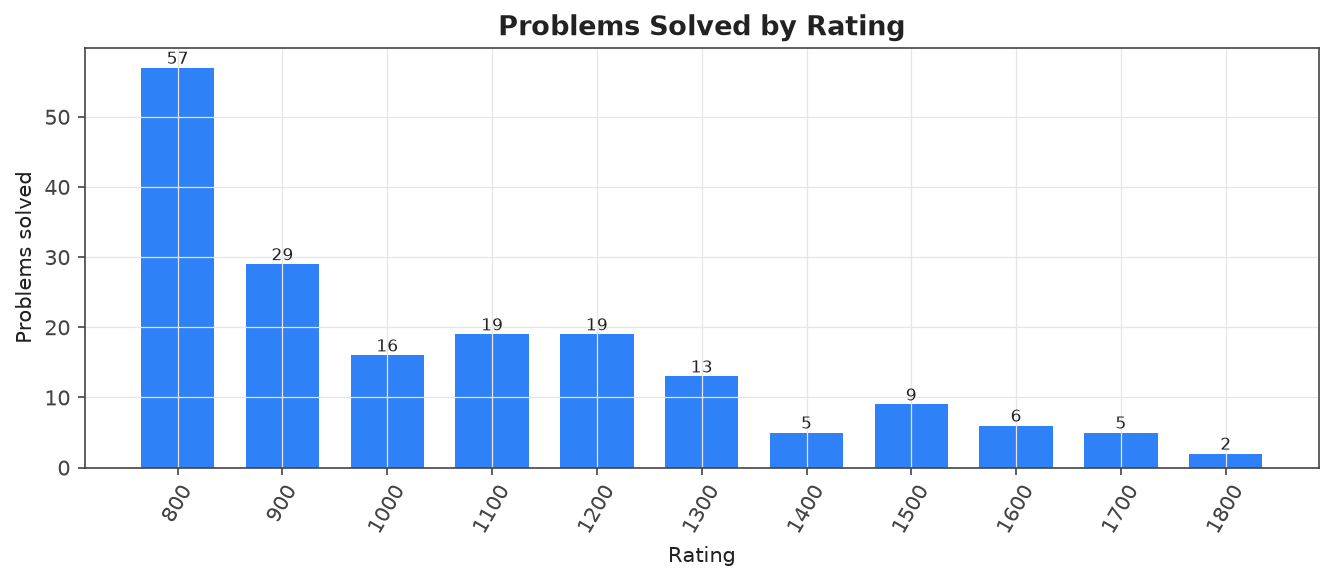
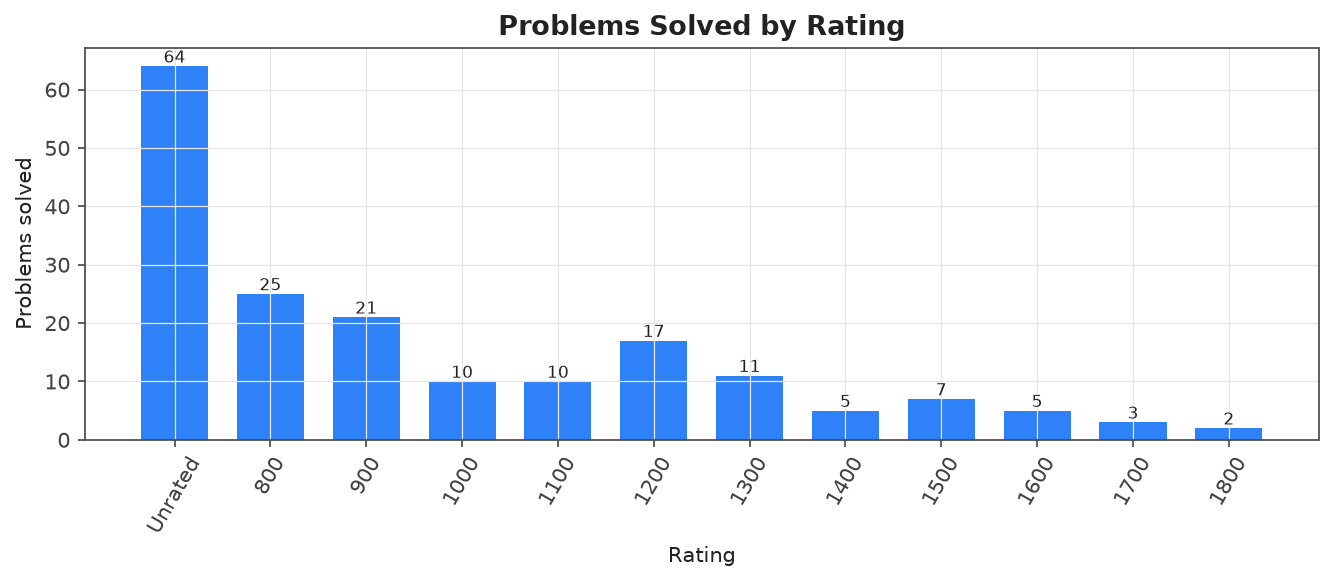
Sync: refresh analytics (rating/streak update, no new problems)

diff --git a/README.md b/README.md
@@ -37,17 +37,18 @@ Auto-generated archive of accepted Codeforces submissions for **[om_sharma_](htt
 
 | Rating | Count |
 |---|---|
-| 0800 | 57 |
-| 0900 | 29 |
-| 1000 | 16 |
-| 1100 | 19 |
-| 1200 | 19 |
-| 1300 | 13 |
+| 0800 | 25 |
+| 0900 | 21 |
+| 1000 | 10 |
+| 1100 | 10 |
+| 1200 | 17 |
+| 1300 | 11 |
 | 1400 | 5 |
-| 1500 | 9 |
-| 1600 | 6 |
-| 1700 | 5 |
+| 1500 | 7 |
+| 1600 | 5 |
+| 1700 | 3 |
 | 1800 | 2 |
+| Unrated | 64 |
 
 ### By tag
 
@@ -86,6 +87,70 @@ Auto-generated archive of accepted Codeforces submissions for **[om_sharma_](htt
 
 | # | Problem | Rating | Tags | Code | Link |
 |---|---|---|---|---|---|
+| 2167A | [Square?](problems/math/Unrated_2167A-Square) | ? | `math`, `sortings` | — | [CF](https://codeforces.com/contest/2167/problem/A) |
+| 2169B | [Drifting Away](problems/greedy/Unrated_2169B-Drifting-Away) | ? | `greedy`, `implementation` | — | [CF](https://codeforces.com/contest/2169/problem/B) |
+| 2182A | [New Year String](problems/constructive-algorithms/Unrated_2182A-New-Year-String) | ? | `constructive algorithms`, `greedy`, `implementation`, `strings` | — | [CF](https://codeforces.com/contest/2182/problem/A) |
+| 2182B | [New Year Cake](problems/brute-force/Unrated_2182B-New-Year-Cake) | ? | `brute force` | — | [CF](https://codeforces.com/contest/2182/problem/B) |
+| 2185A | [Perfect Root](problems/constructive-algorithms/Unrated_2185A-Perfect-Root) | ? | `constructive algorithms`, `math` | — | [CF](https://codeforces.com/contest/2185/problem/A) |
+| 2185B | [Prefix Max](problems/greedy/Unrated_2185B-Prefix-Max) | ? | `greedy` | — | [CF](https://codeforces.com/contest/2185/problem/B) |
+| 2185C | [Shifted MEX](problems/implementation/Unrated_2185C-Shifted-MEX) | ? | `implementation`, `sortings` | — | [CF](https://codeforces.com/contest/2185/problem/C) |
+| 2188A | [Divisible Permutation](problems/constructive-algorithms/Unrated_2188A-Divisible-Permutation) | ? | `constructive algorithms` | — | [CF](https://codeforces.com/contest/2188/problem/A) |
+| 2193C | [Replace and Sum](problems/data-structures/Unrated_2193C-Replace-and-Sum) | ? | `data structures`, `greedy` | — | [CF](https://codeforces.com/contest/2193/problem/C) |
+| 2195B | [Heapify 1](problems/implementation/Unrated_2195B-Heapify-1) | ? | `implementation`, `sortings` | — | [CF](https://codeforces.com/contest/2195/problem/B) |
+| 2195A | [Sieve of Erato67henes](problems/math/Unrated_2195A-Sieve-of-Erato67henes) | ? | `math`, `number theory` | — | [CF](https://codeforces.com/contest/2195/problem/A) |
+| 2196A | [Game with a Fraction](problems/games/Unrated_2196A-Game-with-a-Fraction) | ? | `games`, `math` | — | [CF](https://codeforces.com/contest/2196/problem/A) |
+| 2206J | [Worldwide Playlist](problems/math/Unrated_2206J-Worldwide-Playlist) | ? | `math` | — | [CF](https://codeforces.com/contest/2206/problem/J) |
+| 2209A | [Flip Flops](problems/greedy/Unrated_2209A-Flip-Flops) | ? | `greedy` | — | [CF](https://codeforces.com/contest/2209/problem/A) |
+| 2210B | [Simply Sitting on Chairs](problems/data-structures/Unrated_2210B-Simply-Sitting-on-Chairs) | ? | `data structures`, `greedy` | — | [CF](https://codeforces.com/contest/2210/problem/B) |
+| 2218A | [The 67th Integer Problem](problems/brute-force/Unrated_2218A-The-67th-Integer-Problem) | ? | `brute force`, `games`, `implementation`, `math` | — | [CF](https://codeforces.com/contest/2218/problem/A) |
+| 2233A | [AI Project Development](problems/brute-force/Unrated_2233A-AI-Project-Development) | ? | `brute force`, `math` | — | [CF](https://codeforces.com/contest/2233/problem/A) |
+| 2234A | [Euclid, Sequence and Two Numbers](problems/math/Unrated_2234A-Euclid-Sequence-and-Two-Numbers) | ? | `math`, `number theory`, `sortings` | — | [CF](https://codeforces.com/contest/2234/problem/A) |
+| 2234B | [Palindrome, Twelve and Two Terms](problems/brute-force/Unrated_2234B-Palindrome-Twelve-and-Two-Terms) | ? | `brute force`, `constructive algorithms`, `math` | — | [CF](https://codeforces.com/contest/2234/problem/B) |
+| 2236A | [Games on the Train](problems/greedy/Unrated_2236A-Games-on-the-Train) | ? | `greedy`, `math` | — | [CF](https://codeforces.com/contest/2236/problem/A) |
+| 2236B | [Tatar TV Show](problems/greedy/Unrated_2236B-Tatar-TV-Show) | ? | `greedy`, `math`, `strings` | — | [CF](https://codeforces.com/contest/2236/problem/B) |
+| 2236C | [Omsk Programmers](problems/brute-force/Unrated_2236C-Omsk-Programmers) | ? | `brute force`, `greedy`, `math` | — | [CF](https://codeforces.com/contest/2236/problem/C) |
+| 2236E | [Friendly Gifts](problems/brute-force/Unrated_2236E-Friendly-Gifts) | ? | `brute force`, `dp` | — | [CF](https://codeforces.com/contest/2236/problem/E) |
+| 2238A | [Another Puzzle from Papyrus](problems/greedy/Unrated_2238A-Another-Puzzle-from-Papyrus) | ? | `greedy`, `math`, `sortings` | — | [CF](https://codeforces.com/contest/2238/problem/A) |
+| 2238B | [Crimson Triples](problems/dp/Unrated_2238B-Crimson-Triples) | ? | `dp`, `math`, `number theory` | — | [CF](https://codeforces.com/contest/2238/problem/B) |
+| 2238D | [Storming Arasaka](problems/greedy/Unrated_2238D-Storming-Arasaka) | ? | `greedy`, `math`, `number theory` | — | [CF](https://codeforces.com/contest/2238/problem/D) |
+| 2240A | [Another Popcount Problem](problems/greedy/Unrated_2240A-Another-Popcount-Problem) | ? | `greedy` | — | [CF](https://codeforces.com/contest/2240/problem/A) |
+| 2240B | [AI Finds Nothing Here](problems/combinatorics/Unrated_2240B-AI-Finds-Nothing-Here) | ? | `combinatorics`, `math` | — | [CF](https://codeforces.com/contest/2240/problem/B) |
+| 2240C | [Nim Game Is XOR Game](problems/games/Unrated_2240C-Nim-Game-Is-XOR-Game) | ? | `games`, `greedy` | — | [CF](https://codeforces.com/contest/2240/problem/C) |
+| 2240D | [Decidophobia](problems/greedy/Unrated_2240D-Decidophobia) | ? | `greedy`, `sortings` | — | [CF](https://codeforces.com/contest/2240/problem/D) |
+| 2241A | [Divide and Conquer](problems/greedy/Unrated_2241A-Divide-and-Conquer) | ? | `greedy`, `math`, `number theory` | — | [CF](https://codeforces.com/contest/2241/problem/A) |
+| 2241C | [RemovevomeR](problems/greedy/Unrated_2241C-RemovevomeR) | ? | `greedy` | — | [CF](https://codeforces.com/contest/2241/problem/C) |
+| 2241D | [An Alternative Way](problems/dp/Unrated_2241D-An-Alternative-Way) | ? | `dp`, `greedy`, `math` | — | [CF](https://codeforces.com/contest/2241/problem/D) |
+| 2241B | [Good times Good times](problems/constructive-algorithms/Unrated_2241B-Good-times-Good-times) | ? | `constructive algorithms`, `dfs and similar`, `math` | — | [CF](https://codeforces.com/contest/2241/problem/B) |
+| 2242A | [Bigrams](problems/sortings/Unrated_2242A-Bigrams) | ? | `sortings`, `strings` | — | [CF](https://codeforces.com/contest/2242/problem/A) |
+| 2242C | [Unstable Elements](problems/brute-force/Unrated_2242C-Unstable-Elements) | ? | `brute force`, `data structures`, `implementation`, `sortings`, `two pointers` | — | [CF](https://codeforces.com/contest/2242/problem/C) |
+| 2242B | [Predominant Frequency Division](problems/data-structures/Unrated_2242B-Predominant-Frequency-Division) | ? | `data structures`, `greedy`, `implementation`, `math` | — | [CF](https://codeforces.com/contest/2242/problem/B) |
+| 2244A | [Iskander and Drawings](problems/dp/Unrated_2244A-Iskander-and-Drawings) | ? | `dp`, `games`, `greedy`, `strings` | — | [CF](https://codeforces.com/contest/2244/problem/A) |
+| 2244B | [Nikita and Books](problems/greedy/Unrated_2244B-Nikita-and-Books) | ? | `greedy`, `math`, `sortings` | — | [CF](https://codeforces.com/contest/2244/problem/B) |
+| 2244C | [Stepan and Permutation](problems/constructive-algorithms/Unrated_2244C-Stepan-and-Permutation) | ? | `constructive algorithms`, `dfs and similar`, `dsu`, `greedy`, `math`, `number theory`, `sortings` | — | [CF](https://codeforces.com/contest/2244/problem/C) |
+| 2244D | [Yaroslav and Productivity](problems/constructive-algorithms/Unrated_2244D-Yaroslav-and-Productivity) | ? | `constructive algorithms`, `dp`, `greedy`, `math`, `number theory` | — | [CF](https://codeforces.com/contest/2244/problem/D) |
+| 2245A | [Who Watches the Watchpig?](problems/greedy/Unrated_2245A-Who-Watches-the-Watchpig) | ? | `greedy` | — | [CF](https://codeforces.com/contest/2245/problem/A) |
+| 2245B | [Delete and Concatenate](problems/greedy/Unrated_2245B-Delete-and-Concatenate) | ? | `greedy` | — | [CF](https://codeforces.com/contest/2245/problem/B) |
+| 2246A | [farmpiggie and Subset Sum](problems/constructive-algorithms/Unrated_2246A-farmpiggie-and-Subset-Sum) | ? | `constructive algorithms` | — | [CF](https://codeforces.com/contest/2246/problem/A) |
+| 2246B | [ezraft and Array](problems/constructive-algorithms/Unrated_2246B-ezraft-and-Array) | ? | `constructive algorithms`, `number theory` | — | [CF](https://codeforces.com/contest/2246/problem/B) |
+| 2247A | [Zero Sum](problems/constructive-algorithms/Unrated_2247A-Zero-Sum) | ? | `constructive algorithms`, `dp`, `number theory` | — | [CF](https://codeforces.com/contest/2247/problem/A) |
+| 2247C | [Inversion of a Subsequence](problems/greedy/Unrated_2247C-Inversion-of-a-Subsequence) | ? | `greedy`, `math` | — | [CF](https://codeforces.com/contest/2247/problem/C) |
+| 2247B | [Yet Another Constructive](problems/constructive-algorithms/Unrated_2247B-Yet-Another-Constructive) | ? | `constructive algorithms` | — | [CF](https://codeforces.com/contest/2247/problem/B) |
+| 2248A | [You Delete, I Delete](problems/greedy/Unrated_2248A-You-Delete-I-Delete) | ? | `greedy` | — | [CF](https://codeforces.com/contest/2248/problem/A) |
+| 2250A | [Threshold Movement](problems/brute-force/Unrated_2250A-Threshold-Movement) | ? | `brute force`, `implementation`, `math` | — | [CF](https://codeforces.com/contest/2250/problem/A) |
+| 2252A | [Boss Fight](problems/data-structures/Unrated_2252A-Boss-Fight) | ? | `data structures`, `greedy` | — | [CF](https://codeforces.com/contest/2252/problem/A) |
+| 2252B | [Always Changing](problems/dp/Unrated_2252B-Always-Changing) | ? | `dp`, `greedy`, `math`, `strings` | — | [CF](https://codeforces.com/contest/2252/problem/B) |
+| 2253B | [Hypercarp and the Control Panel](problems/brute-force/Unrated_2253B-Hypercarp-and-the-Control-Panel) | ? | `brute force`, `data structures`, `two pointers` | — | [CF](https://codeforces.com/contest/2253/problem/B) |
+| 2253A | [The Best Card](problems/greedy/Unrated_2253A-The-Best-Card) | ? | `greedy`, `math`, `number theory` | — | [CF](https://codeforces.com/contest/2253/problem/A) |
+| 2254A | [Riptide](problems/implementation/Unrated_2254A-Riptide) | ? | `implementation`, `sortings` | — | [CF](https://codeforces.com/contest/2254/problem/A) |
+| 2254B | [Evanescent](problems/implementation/Unrated_2254B-Evanescent) | ? | `implementation`, `strings`, `two pointers` | — | [CF](https://codeforces.com/contest/2254/problem/B) |
+| 2254C1 | [Marenol (easy version)](problems/greedy/Unrated_2254C1-Marenol-easy-version) | ? | `greedy` | — | [CF](https://codeforces.com/contest/2254/problem/C1) |
+| 2256A | [Three Numbers on the Blackboard](problems/math/Unrated_2256A-Three-Numbers-on-the-Blackboard) | ? | `math`, `sortings` | — | [CF](https://codeforces.com/contest/2256/problem/A) |
+| 2256B | [Domino Tiles](problems/implementation/Unrated_2256B-Domino-Tiles) | ? | `implementation`, `math` | — | [CF](https://codeforces.com/contest/2256/problem/B) |
+| 2257A | [Creating Abbreviations](problems/brute-force/Unrated_2257A-Creating-Abbreviations) | ? | `brute force`, `strings` | — | [CF](https://codeforces.com/contest/2257/problem/A) |
+| 2257B | [Gigantomachy](problems/math/Unrated_2257B-Gigantomachy) | ? | `math` | — | [CF](https://codeforces.com/contest/2257/problem/B) |
+| 2257D | [Bermuda Rectangle](problems/binary-search/Unrated_2257D-Bermuda-Rectangle) | ? | `binary search`, `implementation`, `math`, `number theory`, `two pointers` | — | [CF](https://codeforces.com/contest/2257/problem/D) |
+| 2258A | [Odd Eraser](problems/math/Unrated_2258A-Odd-Eraser) | ? | `math` | — | [CF](https://codeforces.com/contest/2258/problem/A) |
+| 2258B1 | [Carrot Chopdown (Easy Version)](problems/brute-force/Unrated_2258B1-Carrot-Chopdown-Easy-Version) | ? | `brute force`, `games`, `math` | — | [CF](https://codeforces.com/contest/2258/problem/B1) |
 | 4A | [Watermelon](problems/brute-force/0800_4A-Watermelon) | 800 | `brute force`, `math` | — | [CF](https://codeforces.com/contest/4/problem/A) |
 | 14A | [Letter](problems/implementation/0800_14A-Letter) | 800 | `implementation` | — | [CF](https://codeforces.com/contest/14/problem/A) |
 | 71A | [Way Too Long Words](problems/strings/0800_71A-Way-Too-Long-Words) | 800 | `strings` | — | [CF](https://codeforces.com/contest/71/problem/A) |
@@ -111,38 +176,6 @@ Auto-generated archive of accepted Codeforces submissions for **[om_sharma_](htt
 | 2139B | [Cake Collection](problems/greedy/0800_2139B-Cake-Collection) | 800 | `greedy` | — | [CF](https://codeforces.com/contest/2139/problem/B) |
 | 2139A | [Maple and Multiplication](problems/greedy/0800_2139A-Maple-and-Multiplication) | 800 | `greedy`, `math` | — | [CF](https://codeforces.com/contest/2139/problem/A) |
 | 2151A | [Incremental Subarray](problems/math/0800_2151A-Incremental-Subarray) | 800 | `math`, `strings` | — | [CF](https://codeforces.com/contest/2151/problem/A) |
-| 2167A | [Square?](problems/math/0800_2167A-Square) | 800 | `math`, `sortings` | — | [CF](https://codeforces.com/contest/2167/problem/A) |
-| 2182A | [New Year String](problems/constructive-algorithms/0800_2182A-New-Year-String) | 800 | `constructive algorithms`, `greedy`, `implementation`, `strings` | — | [CF](https://codeforces.com/contest/2182/problem/A) |
-| 2182B | [New Year Cake](problems/brute-force/0800_2182B-New-Year-Cake) | 800 | `brute force` | — | [CF](https://codeforces.com/contest/2182/problem/B) |
-| 2185A | [Perfect Root](problems/constructive-algorithms/0800_2185A-Perfect-Root) | 800 | `constructive algorithms`, `math` | — | [CF](https://codeforces.com/contest/2185/problem/A) |
-| 2185B | [Prefix Max](problems/greedy/0800_2185B-Prefix-Max) | 800 | `greedy` | — | [CF](https://codeforces.com/contest/2185/problem/B) |
-| 2188A | [Divisible Permutation](problems/constructive-algorithms/0800_2188A-Divisible-Permutation) | 800 | `constructive algorithms` | — | [CF](https://codeforces.com/contest/2188/problem/A) |
-| 2195A | [Sieve of Erato67henes](problems/math/0800_2195A-Sieve-of-Erato67henes) | 800 | `math`, `number theory` | — | [CF](https://codeforces.com/contest/2195/problem/A) |
-| 2209A | [Flip Flops](problems/greedy/0800_2209A-Flip-Flops) | 800 | `greedy` | — | [CF](https://codeforces.com/contest/2209/problem/A) |
-| 2218A | [The 67th Integer Problem](problems/brute-force/0800_2218A-The-67th-Integer-Problem) | 800 | `brute force`, `games`, `implementation`, `math` | — | [CF](https://codeforces.com/contest/2218/problem/A) |
-| 2233A | [AI Project Development](problems/brute-force/0800_2233A-AI-Project-Development) | 800 | `brute force`, `math` | — | [CF](https://codeforces.com/contest/2233/problem/A) |
-| 2234A | [Euclid, Sequence and Two Numbers](problems/math/0800_2234A-Euclid-Sequence-and-Two-Numbers) | 800 | `math`, `number theory`, `sortings` | — | [CF](https://codeforces.com/contest/2234/problem/A) |
-| 2234B | [Palindrome, Twelve and Two Terms](problems/brute-force/0800_2234B-Palindrome-Twelve-and-Two-Terms) | 800 | `brute force`, `constructive algorithms`, `math` | — | [CF](https://codeforces.com/contest/2234/problem/B) |
-| 2236A | [Games on the Train](problems/greedy/0800_2236A-Games-on-the-Train) | 800 | `greedy`, `math` | — | [CF](https://codeforces.com/contest/2236/problem/A) |
-| 2236B | [Tatar TV Show](problems/greedy/0800_2236B-Tatar-TV-Show) | 800 | `greedy`, `math`, `strings` | — | [CF](https://codeforces.com/contest/2236/problem/B) |
-| 2238A | [Another Puzzle from Papyrus](problems/greedy/0800_2238A-Another-Puzzle-from-Papyrus) | 800 | `greedy`, `math`, `sortings` | — | [CF](https://codeforces.com/contest/2238/problem/A) |
-| 2240A | [Another Popcount Problem](problems/greedy/0800_2240A-Another-Popcount-Problem) | 800 | `greedy` | — | [CF](https://codeforces.com/contest/2240/problem/A) |
-| 2241A | [Divide and Conquer](problems/greedy/0800_2241A-Divide-and-Conquer) | 800 | `greedy`, `math`, `number theory` | — | [CF](https://codeforces.com/contest/2241/problem/A) |
-| 2242A | [Bigrams](problems/sortings/0800_2242A-Bigrams) | 800 | `sortings`, `strings` | — | [CF](https://codeforces.com/contest/2242/problem/A) |
-| 2244A | [Iskander and Drawings](problems/dp/0800_2244A-Iskander-and-Drawings) | 800 | `dp`, `games`, `greedy`, `strings` | — | [CF](https://codeforces.com/contest/2244/problem/A) |
-| 2244B | [Nikita and Books](problems/greedy/0800_2244B-Nikita-and-Books) | 800 | `greedy`, `math`, `sortings` | — | [CF](https://codeforces.com/contest/2244/problem/B) |
-| 2245A | [Who Watches the Watchpig?](problems/greedy/0800_2245A-Who-Watches-the-Watchpig) | 800 | `greedy` | — | [CF](https://codeforces.com/contest/2245/problem/A) |
-| 2246A | [farmpiggie and Subset Sum](problems/constructive-algorithms/0800_2246A-farmpiggie-and-Subset-Sum) | 800 | `constructive algorithms` | — | [CF](https://codeforces.com/contest/2246/problem/A) |
-| 2247A | [Zero Sum](problems/constructive-algorithms/0800_2247A-Zero-Sum) | 800 | `constructive algorithms`, `dp`, `number theory` | — | [CF](https://codeforces.com/contest/2247/problem/A) |
-| 2248A | [You Delete, I Delete](problems/greedy/0800_2248A-You-Delete-I-Delete) | 800 | `greedy` | — | [CF](https://codeforces.com/contest/2248/problem/A) |
-| 2250A | [Threshold Movement](problems/brute-force/0800_2250A-Threshold-Movement) | 800 | `brute force`, `implementation`, `math` | — | [CF](https://codeforces.com/contest/2250/problem/A) |
-| 2252A | [Boss Fight](problems/data-structures/0800_2252A-Boss-Fight) | 800 | `data structures`, `greedy` | — | [CF](https://codeforces.com/contest/2252/problem/A) |
-| 2253A | [The Best Card](problems/greedy/0800_2253A-The-Best-Card) | 800 | `greedy`, `math`, `number theory` | — | [CF](https://codeforces.com/contest/2253/problem/A) |
-| 2254A | [Riptide](problems/implementation/0800_2254A-Riptide) | 800 | `implementation`, `sortings` | — | [CF](https://codeforces.com/contest/2254/problem/A) |
-| 2256A | [Three Numbers on the Blackboard](problems/math/0800_2256A-Three-Numbers-on-the-Blackboard) | 800 | `math`, `sortings` | — | [CF](https://codeforces.com/contest/2256/problem/A) |
-| 2257A | [Creating Abbreviations](problems/brute-force/0800_2257A-Creating-Abbreviations) | 800 | `brute force`, `strings` | — | [CF](https://codeforces.com/contest/2257/problem/A) |
-| 2257B | [Gigantomachy](problems/math/0800_2257B-Gigantomachy) | 800 | `math` | — | [CF](https://codeforces.com/contest/2257/problem/B) |
-| 2258A | [Odd Eraser](problems/math/0800_2258A-Odd-Eraser) | 800 | `math` | — | [CF](https://codeforces.com/contest/2258/problem/A) |
 | 337A | [Puzzles](problems/greedy/0900_337A-Puzzles) | 900 | `greedy` | — | [CF](https://codeforces.com/contest/337/problem/A) |
 | 1374B | [Multiply by 2, divide by 6](problems/math/0900_1374B-Multiply-by-2-divide-by-6) | 900 | `math` | — | [CF](https://codeforces.com/contest/1374/problem/B) |
 | 1440B | [Sum of Medians](problems/greedy/0900_1440B-Sum-of-Medians) | 900 | `greedy`, `math` | — | [CF](https://codeforces.com/contest/1440/problem/B) |
@@ -164,14 +197,6 @@ Auto-generated archive of accepted Codeforces submissions for **[om_sharma_](htt
 | 1878C | [Vasilije in Cacak](problems/math/0900_1878C-Vasilije-in-Cacak) | 900 | `math` | — | [CF](https://codeforces.com/contest/1878/problem/C) |
 | 1883B | [Chemistry](problems/strings/0900_1883B-Chemistry) | 900 | `strings` | — | [CF](https://codeforces.com/contest/1883/problem/B) |
 | 1904A | [Forked!](problems/brute-force/0900_1904A-Forked) | 900 | `brute force`, `implementation` | — | [CF](https://codeforces.com/contest/1904/problem/A) |
-| 2185C | [Shifted MEX](problems/implementation/0900_2185C-Shifted-MEX) | 900 | `implementation`, `sortings` | — | [CF](https://codeforces.com/contest/2185/problem/C) |
-| 2195B | [Heapify 1](problems/implementation/0900_2195B-Heapify-1) | 900 | `implementation`, `sortings` | — | [CF](https://codeforces.com/contest/2195/problem/B) |
-| 2210B | [Simply Sitting on Chairs](problems/data-structures/0900_2210B-Simply-Sitting-on-Chairs) | 900 | `data structures`, `greedy` | — | [CF](https://codeforces.com/contest/2210/problem/B) |
-| 2238B | [Crimson Triples](problems/dp/0900_2238B-Crimson-Triples) | 900 | `dp`, `math`, `number theory` | — | [CF](https://codeforces.com/contest/2238/problem/B) |
-| 2246B | [ezraft and Array](problems/constructive-algorithms/0900_2246B-ezraft-and-Array) | 900 | `constructive algorithms`, `number theory` | — | [CF](https://codeforces.com/contest/2246/problem/B) |
-| 2247B | [Yet Another Constructive](problems/constructive-algorithms/0900_2247B-Yet-Another-Constructive) | 900 | `constructive algorithms` | — | [CF](https://codeforces.com/contest/2247/problem/B) |
-| 2254B | [Evanescent](problems/implementation/0900_2254B-Evanescent) | 900 | `implementation`, `strings`, `two pointers` | — | [CF](https://codeforces.com/contest/2254/problem/B) |
-| 2258B1 | [Carrot Chopdown (Easy Version)](problems/brute-force/0900_2258B1-Carrot-Chopdown-Easy-Version) | 900 | `brute force`, `games`, `math` | — | [CF](https://codeforces.com/contest/2258/problem/B1) |
 | 1A | [Theatre Square](problems/math/1000_1A-Theatre-Square) | 1000 | `math` | — | [CF](https://codeforces.com/contest/1/problem/A) |
 | 14B | [Young Photographer](problems/implementation/1000_14B-Young-Photographer) | 1000 | `implementation` | — | [CF](https://codeforces.com/contest/14/problem/B) |
 | 43A | [Football](problems/strings/1000_43A-Football) | 1000 | `strings` | — | [CF](https://codeforces.com/contest/43/problem/A) |
@@ -182,12 +207,6 @@ Auto-generated archive of accepted Codeforces submissions for **[om_sharma_](htt
 | 1784A | [Monsters (easy version)](problems/brute-force/1000_1784A-Monsters-easy-version) | 1000 | `brute force`, `greedy` | — | [CF](https://codeforces.com/contest/1784/problem/A) |
 | 1883C | [Raspberries](problems/dp/1000_1883C-Raspberries) | 1000 | `dp`, `math` | — | [CF](https://codeforces.com/contest/1883/problem/C) |
 | 1913B | [Swap and Delete](problems/strings/1000_1913B-Swap-and-Delete) | 1000 | `strings` | — | [CF](https://codeforces.com/contest/1913/problem/B) |
-| 2193C | [Replace and Sum](problems/data-structures/1000_2193C-Replace-and-Sum) | 1000 | `data structures`, `greedy` | — | [CF](https://codeforces.com/contest/2193/problem/C) |
-| 2236C | [Omsk Programmers](problems/brute-force/1000_2236C-Omsk-Programmers) | 1000 | `brute force`, `greedy`, `math` | — | [CF](https://codeforces.com/contest/2236/problem/C) |
-| 2241C | [RemovevomeR](problems/greedy/1000_2241C-RemovevomeR) | 1000 | `greedy` | — | [CF](https://codeforces.com/contest/2241/problem/C) |
-| 2242B | [Predominant Frequency Division](problems/data-structures/1000_2242B-Predominant-Frequency-Division) | 1000 | `data structures`, `greedy`, `implementation`, `math` | — | [CF](https://codeforces.com/contest/2242/problem/B) |
-| 2254C1 | [Marenol (easy version)](problems/greedy/1000_2254C1-Marenol-easy-version) | 1000 | `greedy` | — | [CF](https://codeforces.com/contest/2254/problem/C1) |
-| 2256B | [Domino Tiles](problems/implementation/1000_2256B-Domino-Tiles) | 1000 | `implementation`, `math` | — | [CF](https://codeforces.com/contest/2256/problem/B) |
 | 919B | [Perfect Number](problems/binary-search/1100_919B-Perfect-Number) | 1100 | `binary search`, `brute force`, `dp`, `implementation`, `number theory` | — | [CF](https://codeforces.com/contest/919/problem/B) |
 | 1708B | [Difference of GCDs](problems/constructive-algorithms/1100_1708B-Difference-of-GCDs) | 1100 | `constructive algorithms`, `math` | — | [CF](https://codeforces.com/contest/1708/problem/B) |
 | 1826B | [Lunatic Never Content](problems/math/1100_1826B-Lunatic-Never-Content) | 1100 | `math`, `number theory` | — | [CF](https://codeforces.com/contest/1826/problem/B) |
@@ -198,15 +217,6 @@ Auto-generated archive of accepted Codeforces submissions for **[om_sharma_](htt
 | 2063B | [Subsequence Update](problems/constructive-algorithms/1100_2063B-Subsequence-Update) | 1100 | `constructive algorithms`, `data structures`, `greedy`, `sortings` | — | [CF](https://codeforces.com/contest/2063/problem/B) |
 | 2065C1 | [Skibidus and Fanum Tax (easy version)](problems/binary-search/1100_2065C1-Skibidus-and-Fanum-Tax-easy-version) | 1100 | `binary search`, `dp`, `greedy` | — | [CF](https://codeforces.com/contest/2065/problem/C1) |
 | 2138A | [Cake Assignment](problems/bitmasks/1100_2138A-Cake-Assignment) | 1100 | `bitmasks`, `constructive algorithms`, `greedy` | — | [CF](https://codeforces.com/contest/2138/problem/A) |
-| 2169B | [Drifting Away](problems/greedy/1100_2169B-Drifting-Away) | 1100 | `greedy`, `implementation` | — | [CF](https://codeforces.com/contest/2169/problem/B) |
-| 2240B | [AI Finds Nothing Here](problems/combinatorics/1100_2240B-AI-Finds-Nothing-Here) | 1100 | `combinatorics`, `math` | — | [CF](https://codeforces.com/contest/2240/problem/B) |
-| 2241D | [An Alternative Way](problems/dp/1100_2241D-An-Alternative-Way) | 1100 | `dp`, `greedy`, `math` | — | [CF](https://codeforces.com/contest/2241/problem/D) |
-| 2241B | [Good times Good times](problems/constructive-algorithms/1100_2241B-Good-times-Good-times) | 1100 | `constructive algorithms`, `dfs and similar`, `math` | — | [CF](https://codeforces.com/contest/2241/problem/B) |
-| 2244C | [Stepan and Permutation](problems/constructive-algorithms/1100_2244C-Stepan-and-Permutation) | 1100 | `constructive algorithms`, `dfs and similar`, `dsu`, `greedy`, `math`, `number theory`, `sortings` | — | [CF](https://codeforces.com/contest/2244/problem/C) |
-| 2245B | [Delete and Concatenate](problems/greedy/1100_2245B-Delete-and-Concatenate) | 1100 | `greedy` | — | [CF](https://codeforces.com/contest/2245/problem/B) |
-| 2247C | [Inversion of a Subsequence](problems/greedy/1100_2247C-Inversion-of-a-Subsequence) | 1100 | `greedy`, `math` | — | [CF](https://codeforces.com/contest/2247/problem/C) |
-| 2252B | [Always Changing](problems/dp/1100_2252B-Always-Changing) | 1100 | `dp`, `greedy`, `math`, `strings` | — | [CF](https://codeforces.com/contest/2252/problem/B) |
-| 2253B | [Hypercarp and the Control Panel](problems/brute-force/1100_2253B-Hypercarp-and-the-Control-Panel) | 1100 | `brute force`, `data structures`, `two pointers` | — | [CF](https://codeforces.com/contest/2253/problem/B) |
 | 4B | [Before an Exam](problems/constructive-algorithms/1200_4B-Before-an-Exam) | 1200 | `constructive algorithms`, `greedy` | — | [CF](https://codeforces.com/contest/4/problem/B) |
 | 101A | [Homework](problems/greedy/1200_101A-Homework) | 1200 | `greedy` | — | [CF](https://codeforces.com/contest/101/problem/A) |
 | 961B | [Lecture Sleep](problems/data-structures/1200_961B-Lecture-Sleep) | 1200 | `data structures`, `dp`, `implementation`, `two pointers` | — | [CF](https://codeforces.com/contest/961/problem/B) |
@@ -224,8 +234,6 @@ Auto-generated archive of accepted Codeforces submissions for **[om_sharma_](htt
 | 2051D | [Counting Pairs](problems/binary-search/1200_2051D-Counting-Pairs) | 1200 | `binary search`, `sortings`, `two pointers` | — | [CF](https://codeforces.com/contest/2051/problem/D) |
 | 2053B | [Outstanding Impressionist](problems/binary-search/1200_2053B-Outstanding-Impressionist) | 1200 | `binary search`, `brute force`, `data structures`, `greedy` | — | [CF](https://codeforces.com/contest/2053/problem/B) |
 | 2109B | [Slice to Survive](problems/bitmasks/1200_2109B-Slice-to-Survive) | 1200 | `bitmasks`, `greedy`, `math` | — | [CF](https://codeforces.com/contest/2109/problem/B) |
-| 2196A | [Game with a Fraction](problems/games/1200_2196A-Game-with-a-Fraction) | 1200 | `games`, `math` | — | [CF](https://codeforces.com/contest/2196/problem/A) |
-| 2244D | [Yaroslav and Productivity](problems/constructive-algorithms/1200_2244D-Yaroslav-and-Productivity) | 1200 | `constructive algorithms`, `dp`, `greedy`, `math`, `number theory` | — | [CF](https://codeforces.com/contest/2244/problem/D) |
 | 4C | [Registration System](problems/data-structures/1300_4C-Registration-System) | 1300 | `data structures`, `hashing`, `implementation` | — | [CF](https://codeforces.com/contest/4/problem/C) |
 | 230B | [T-primes](problems/binary-search/1300_230B-T-primes) | 1300 | `binary search`, `implementation`, `math`, `number theory` | — | [CF](https://codeforces.com/contest/230/problem/B) |
 | 665C | [Simple Strings](problems/dp/1300_665C-Simple-Strings) | 1300 | `dp`, `greedy`, `strings` | — | [CF](https://codeforces.com/contest/665/problem/C) |
@@ -237,8 +245,6 @@ Auto-generated archive of accepted Codeforces submissions for **[om_sharma_](htt
 | 2041A | [The Bento Box Adventure](problems/implementation/1300_2041A-The-Bento-Box-Adventure) | 1300 | `implementation`, `sortings` | — | [CF](https://codeforces.com/contest/2041/problem/A) |
 | 2049B | [pspspsps](problems/brute-force/1300_2049B-pspspsps) | 1300 | `brute force`, `constructive algorithms`, `graph matchings`, `implementation` | — | [CF](https://codeforces.com/contest/2049/problem/B) |
 | 2116B | [Gellyfish and Baby's Breath](problems/greedy/1300_2116B-Gellyfish-and-Babys-Breath) | 1300 | `greedy`, `math`, `sortings` | — | [CF](https://codeforces.com/contest/2116/problem/B) |
-| 2240C | [Nim Game Is XOR Game](problems/games/1300_2240C-Nim-Game-Is-XOR-Game) | 1300 | `games`, `greedy` | — | [CF](https://codeforces.com/contest/2240/problem/C) |
-| 2242C | [Unstable Elements](problems/brute-force/1300_2242C-Unstable-Elements) | 1300 | `brute force`, `data structures`, `implementation`, `sortings`, `two pointers` | — | [CF](https://codeforces.com/contest/2242/problem/C) |
 | 279B | [Books](problems/binary-search/1400_279B-Books) | 1400 | `binary search`, `brute force`, `implementation`, `two pointers` | — | [CF](https://codeforces.com/contest/279/problem/B) |
 | 1974D | [Ingenuity-2](problems/constructive-algorithms/1400_1974D-Ingenuity-2) | 1400 | `constructive algorithms`, `greedy`, `implementation` | — | [CF](https://codeforces.com/contest/1974/problem/D) |
 | 2038L | [Bridge Renovation](problems/brute-force/1400_2038L-Bridge-Renovation) | 1400 | `brute force`, `dp`, `greedy`, `math`, `two pointers` | — | [CF](https://codeforces.com/contest/2038/problem/L) |
@@ -251,18 +257,13 @@ Auto-generated archive of accepted Codeforces submissions for **[om_sharma_](htt
 | 1933E | [Turtle vs. Rabbit Race: Optimal Trainings](problems/binary-search/1500_1933E-Turtle-vs.-Rabbit-Race-Optimal-Trainings) | 1500 | `binary search`, `implementation`, `math`, `ternary search` | — | [CF](https://codeforces.com/contest/1933/problem/E) |
 | 2050E | [Three Strings](problems/dp/1500_2050E-Three-Strings) | 1500 | `dp`, `implementation`, `strings` | — | [CF](https://codeforces.com/contest/2050/problem/E) |
 | 2072E | [Do You Love Your Hero and His Two-Hit Multi-Target Attacks?](problems/binary-search/1500_2072E-Do-You-Love-Your-Hero-and-His-Two-Hit-Multi-Target-Attacks) | 1500 | `binary search`, `brute force`, `constructive algorithms`, `dp`, `geometry`, `greedy`, `math` | — | [CF](https://codeforces.com/contest/2072/problem/E) |
-| 2238D | [Storming Arasaka](problems/greedy/1500_2238D-Storming-Arasaka) | 1500 | `greedy`, `math`, `number theory` | — | [CF](https://codeforces.com/contest/2238/problem/D) |
-| 2240D | [Decidophobia](problems/greedy/1500_2240D-Decidophobia) | 1500 | `greedy`, `sortings` | — | [CF](https://codeforces.com/contest/2240/problem/D) |
 | 150B | [Quantity of Strings](problems/combinatorics/1600_150B-Quantity-of-Strings) | 1600 | `combinatorics`, `dfs and similar`, `graphs`, `math` | — | [CF](https://codeforces.com/contest/150/problem/B) |
 | 1610C | [Keshi Is Throwing a Party](problems/binary-search/1600_1610C-Keshi-Is-Throwing-a-Party) | 1600 | `binary search`, `greedy` | — | [CF](https://codeforces.com/contest/1610/problem/C) |
 | 1730B | [Meeting on the Line](problems/binary-search/1600_1730B-Meeting-on-the-Line) | 1600 | `binary search`, `geometry`, `greedy`, `implementation`, `math`, `ternary search` | — | [CF](https://codeforces.com/contest/1730/problem/B) |
 | 2040C | [Ordered Permutations](problems/bitmasks/1600_2040C-Ordered-Permutations) | 1600 | `bitmasks`, `combinatorics`, `constructive algorithms`, `greedy`, `math`, `two pointers` | — | [CF](https://codeforces.com/contest/2040/problem/C) |
 | 2048D | [Kevin and Competition Memories](problems/binary-search/1600_2048D-Kevin-and-Competition-Memories) | 1600 | `binary search`, `brute force`, `data structures`, `greedy`, `sortings`, `two pointers` | — | [CF](https://codeforces.com/contest/2048/problem/D) |
-| 2257D | [Bermuda Rectangle](problems/binary-search/1600_2257D-Bermuda-Rectangle) | 1600 | `binary search`, `implementation`, `math`, `number theory`, `two pointers` | — | [CF](https://codeforces.com/contest/2257/problem/D) |
 | 14C | [Four Segments](problems/brute-force/1700_14C-Four-Segments) | 1700 | `brute force`, `constructive algorithms`, `geometry`, `implementation`, `math` | — | [CF](https://codeforces.com/contest/14/problem/C) |
 | 474D | [Flowers](problems/dp/1700_474D-Flowers) | 1700 | `dp` | — | [CF](https://codeforces.com/contest/474/problem/D) |
 | 2045A | [Scrambled Scrabble](problems/brute-force/1700_2045A-Scrambled-Scrabble) | 1700 | `brute force`, `greedy` | — | [CF](https://codeforces.com/contest/2045/problem/A) |
-| 2206J | [Worldwide Playlist](problems/math/1700_2206J-Worldwide-Playlist) | 1700 | `math` | — | [CF](https://codeforces.com/contest/2206/problem/J) |
-| 2236E | [Friendly Gifts](problems/brute-force/1700_2236E-Friendly-Gifts) | 1700 | `brute force`, `dp` | — | [CF](https://codeforces.com/contest/2236/problem/E) |
 | 15B | [Laser](problems/math/1800_15B-Laser) | 1800 | `math` | — | [CF](https://codeforces.com/contest/15/problem/B) |
 | 2106E | [Wolf](problems/binary-search/1800_2106E-Wolf) | 1800 | `binary search`, `greedy`, `math` | — | [CF](https://codeforces.com/contest/2106/problem/E) |
